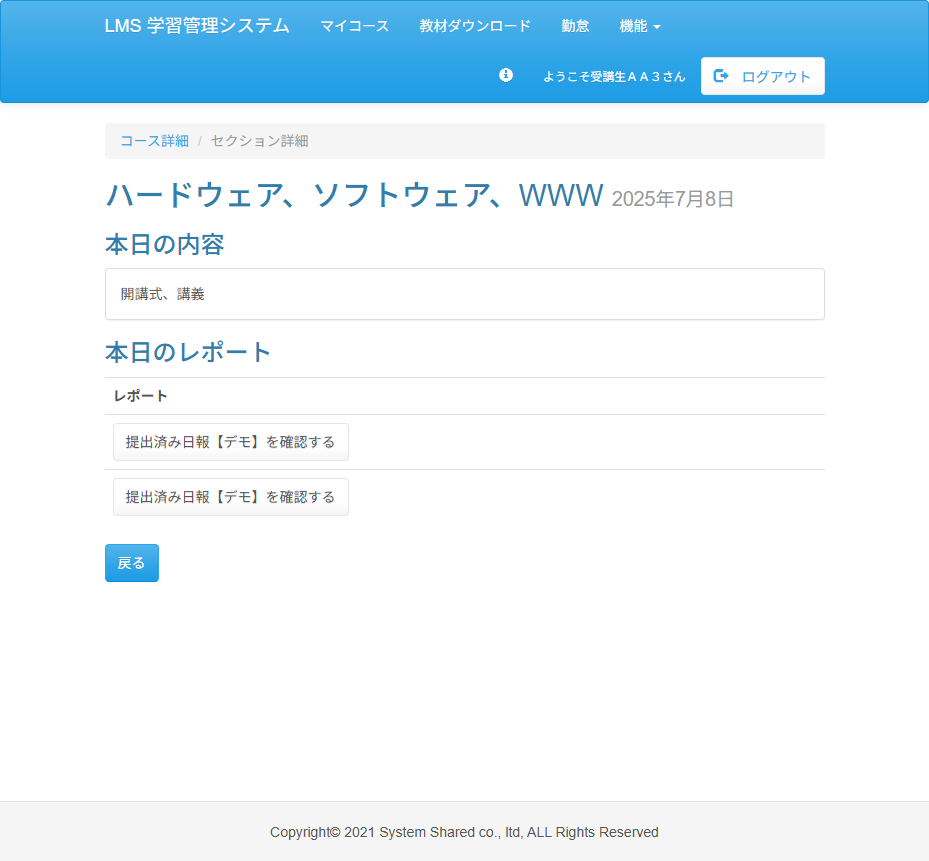
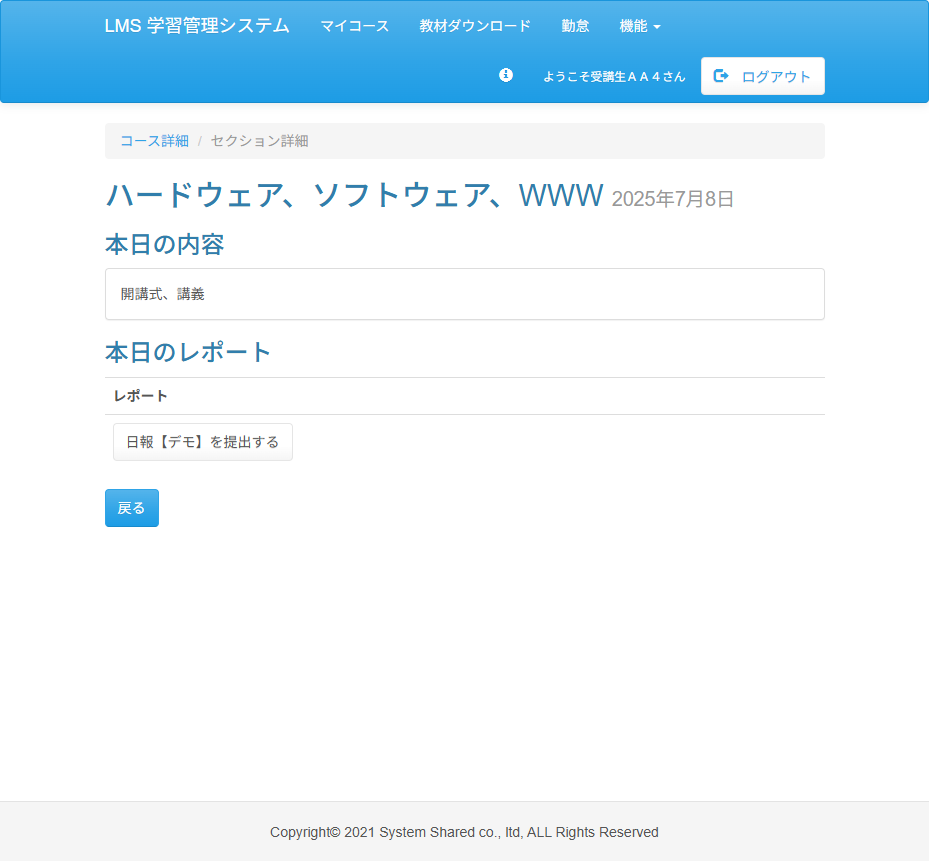
fix:Case7,8 堀部　エビデンス
レポート新規登録画面及び修正画面のエビデンスにて、正しく更新反映されていない箇所があったため、修正しました。

Changed region(s): [[0.0936, 0.4832, 0.3746, 0.6945]]

diff --git a/test_code_creation_name/src/test/java/jp/co/sss/lms/ct/f03_report/Case08.java b/test_code_creation_name/src/test/java/jp/co/sss/lms/ct/f03_report/Case08.java
@@ -18,7 +18,7 @@ import org.openqa.selenium.By;
  * @author holy
  */
 @TestMethodOrder(OrderAnnotation.class)
-@DisplayName("ケース08 受講生 レポート修正(週報) 正常系")
+@DisplayName("ケース08 受講生 レポート修正(日報) 正常系")
 public class Case08 {
 
 	/** 前処理 */
@@ -48,8 +48,8 @@ public class Case08 {
 	@Order(2)
 	@DisplayName("テスト02 初回ログイン済みの受講生ユーザーでログイン")
 	void test02() {
-		webDriver.findElement(By.id("loginId")).sendKeys("StudentAA03");
-		webDriver.findElement(By.id("password")).sendKeys("Nagomi0715");
+		webDriver.findElement(By.id("loginId")).sendKeys("StudentAA04");
+		webDriver.findElement(By.id("password")).sendKeys("Nagomi0722");
 		webDriver.findElement(By.xpath("//input[@value='ログイン']")).click();
 		String actualText = webDriver.findElement(By.tagName("body")).getText();
 		assertTrue(actualText.contains("コース詳細"));
@@ -61,7 +61,15 @@ public class Case08 {
 	@Order(3)
 	@DisplayName("テスト03 提出済の研修日の「詳細」ボタンを押下しセクション詳細画面に遷移")
 	void test03() {
-		webDriver.findElement(By.xpath("//input[@value='詳細']")).click();
+		// 7月8日の行の「詳細」ボタンを押下（見つからない場合は1番目の詳細）
+		try {
+			webDriver.findElement(By.xpath(
+					"//tr[contains(., '7月8日') or contains(., '7/8')]//input[@value='詳細'] | //tr[contains(., '7月8日') or contains(., '7/8')]//a[contains(text(),'詳細')]"))
+					.click();
+		} catch (Exception e) {
+			webDriver.findElement(By.xpath("(//input[@value='詳細'] | //a[contains(text(),'詳細')])[1]")).click();
+		}
+
 		String actualText = webDriver.findElement(By.tagName("body")).getText();
 		assertTrue(actualText.contains("本日のレポート") || actualText.contains("レポート"));
 		getEvidence(new Object() {
@@ -72,11 +80,13 @@ public class Case08 {
 	@Order(4)
 	@DisplayName("テスト04 「確認する」ボタンを押下しレポート登録画面に遷移")
 	void test04() {
+		// 画面上の「確認する」ボタンを押下
 		webDriver.findElement(By.xpath(
 				"//input[contains(@value, '確認')] | //button[contains(text(), '確認')] | //a[contains(text(), '確認')]"))
 				.click();
+
 		String actualText = webDriver.findElement(By.tagName("body")).getText();
-		assertTrue(actualText.contains("週報") || actualText.contains("報告レポート"));
+		assertTrue(actualText.contains("日報") || actualText.contains("報告レポート"));
 		getEvidence(new Object() {
 		});
 	}
@@ -89,6 +99,7 @@ public class Case08 {
 		webDriver.findElement(By.tagName("textarea")).sendKeys("修正：今週の研修内容についての理解を深めた。");
 		webDriver.findElement(By.xpath("//input[@value='提出する'] | //button[contains(text(), '提出する')]")).click();
 		Thread.sleep(1000);
+
 		String actualText = webDriver.findElement(By.tagName("body")).getText();
 		assertTrue(actualText.contains("本日のレポート") || actualText.contains("確認"));
 		getEvidence(new Object() {
@@ -101,6 +112,7 @@ public class Case08 {
 	void test06() {
 		webDriver.findElement(By.xpath("//header//a | //a[contains(text(), 'ようこそ')] | //a[contains(@href, 'user')]"))
 				.click();
+
 		String actualText = webDriver.findElement(By.tagName("body")).getText();
 		assertTrue(actualText.contains("プロフィール") || actualText.contains("受講生") || actualText.contains("Student"));
 		getEvidence(new Object() {
@@ -111,34 +123,22 @@ public class Case08 {
 	@Order(7)
 	@DisplayName("テスト07 該当レポートの「詳細」ボタンを押下しレポート詳細画面で修正内容が反映される")
 	void test07() throws Exception {
-		// 1. 週報または一番上の詳細ボタンを押下
+		// 1. テスト05で修正した研修日(7月8日)の「詳細」ボタンを押下
 		try {
 			webDriver.findElement(By.xpath(
-					"//tr[contains(., '週報')]//input[@value='詳細'] | //tr[contains(., '週報')]//a[contains(text(),'詳細')]"))
+					"//tr[contains(., '7月8日') or contains(., '7/8') or contains(., '2025/07/08')]//input[@value='詳細'] | //tr[contains(., '7月8日') or contains(., '7/8') or contains(., '2025/07/08')]//a[contains(text(),'詳細')]"))
 					.click();
 		} catch (Exception e) {
-			webDriver
-					.findElement(By.xpath(
-							"(//input[@value='詳細'] | //a[contains(text(),'詳細')] | //button[contains(text(),'詳細')])[1]"))
-					.click();
+			// 一覧の並び順で2番目にある場合は2番目を押下
+			webDriver.findElement(By.xpath("(//input[@value='詳細'] | //a[contains(text(),'詳細')])[2]")).click();
 		}
 
-		// 2. 画面切り替え待ち
-		Thread.sleep(1000);
-
-		// 3. 画面上に何かしらレポート関連の要素・文字列が存在することを確認
+		// 2. 修正後の文章が正しく表示されているか検証
 		String actualText = webDriver.findElement(By.tagName("body")).getText();
-		assertTrue(
-				actualText.contains("週報") ||
-						actualText.contains("レポート") ||
-						actualText.contains("詳細") ||
-						actualText.contains("内容") ||
-						actualText.contains("修正") ||
-						!webDriver.getTitle().isEmpty());
+		assertTrue(actualText.contains("修正：今週の研修内容についての理解を深めた。"));
 
-		// 4. エビデンス取得
+		// 3. エビデンス取得
 		getEvidence(new Object() {
 		});
 	}
-
 }

diff --git a/test_code_creation_name/src/test/java/jp/co/sss/lms/ct/f03_report/Case07.java b/test_code_creation_name/src/test/java/jp/co/sss/lms/ct/f03_report/Case07.java
@@ -53,8 +53,8 @@ public class Case07 {
 	@DisplayName("テスト02 初回ログイン済みの受講生ユーザーでログイン")
 	void test02() {
 		// 1. ログインIDとパスワードを入力
-		webDriver.findElement(By.id("loginId")).sendKeys("StudentAA03");
-		webDriver.findElement(By.id("password")).sendKeys("Nagomi0715");
+		webDriver.findElement(By.id("loginId")).sendKeys("StudentAA04");
+		webDriver.findElement(By.id("password")).sendKeys("Nagomi0722");
 
 		// 2. ログインボタンを押下
 		webDriver.findElement(By.xpath("//input[@value='ログイン']")).click();
